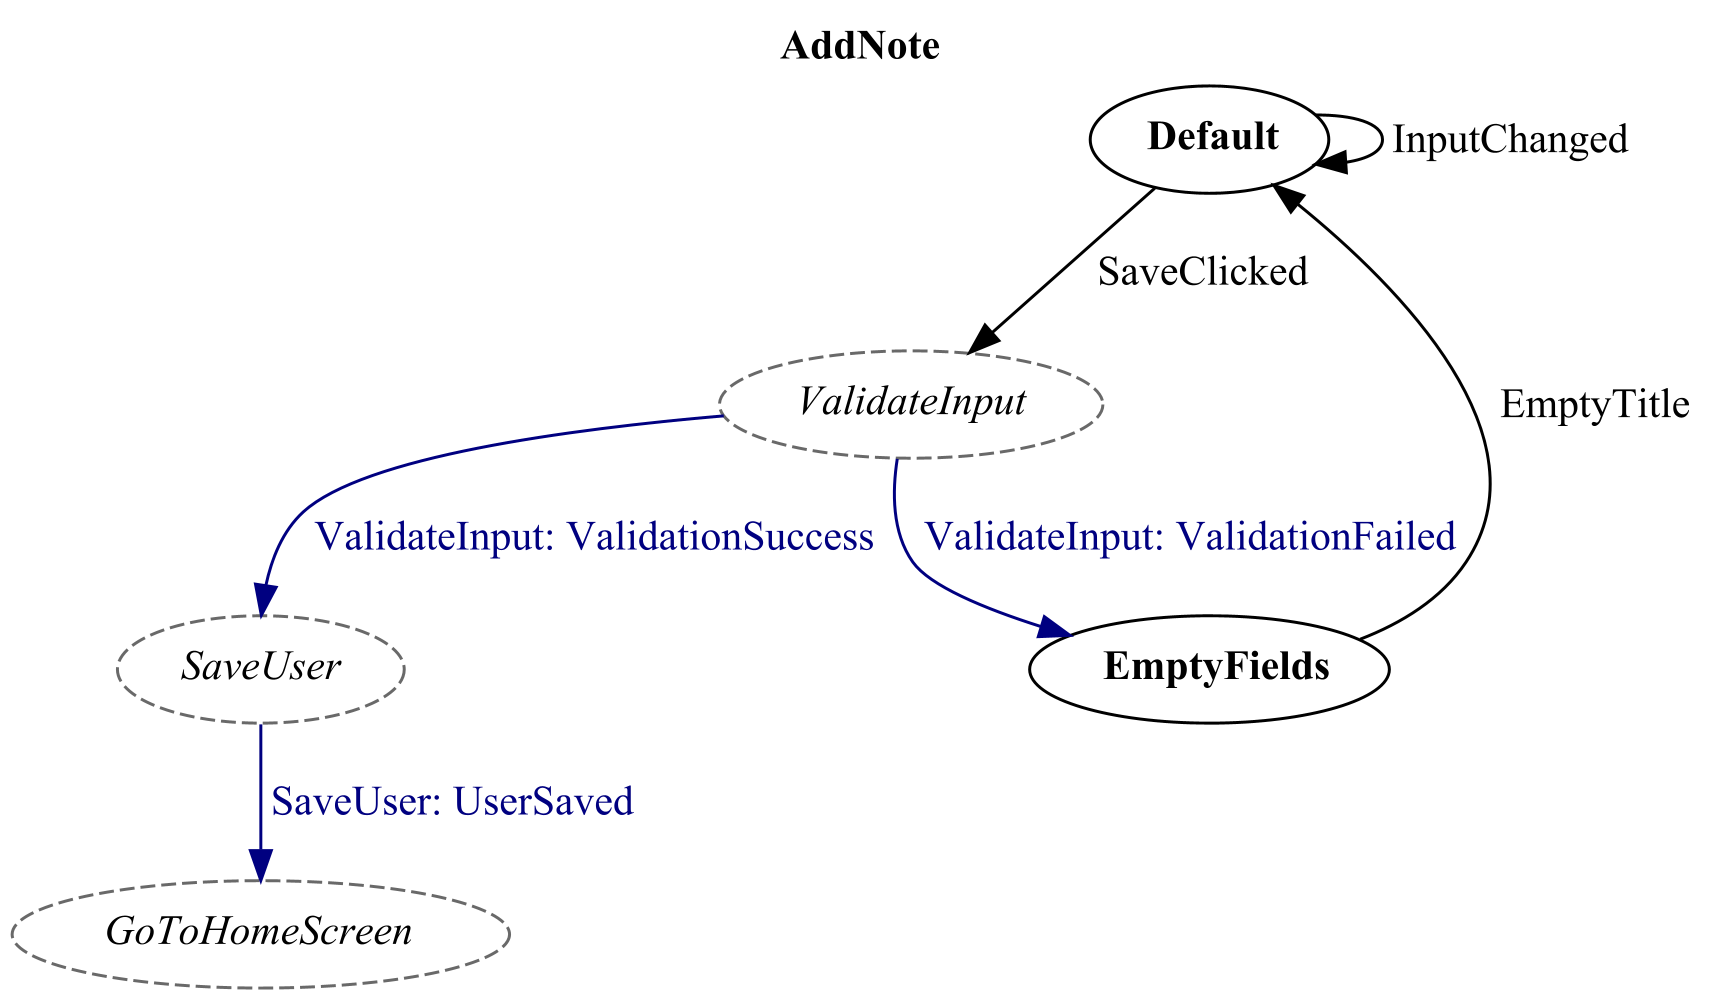
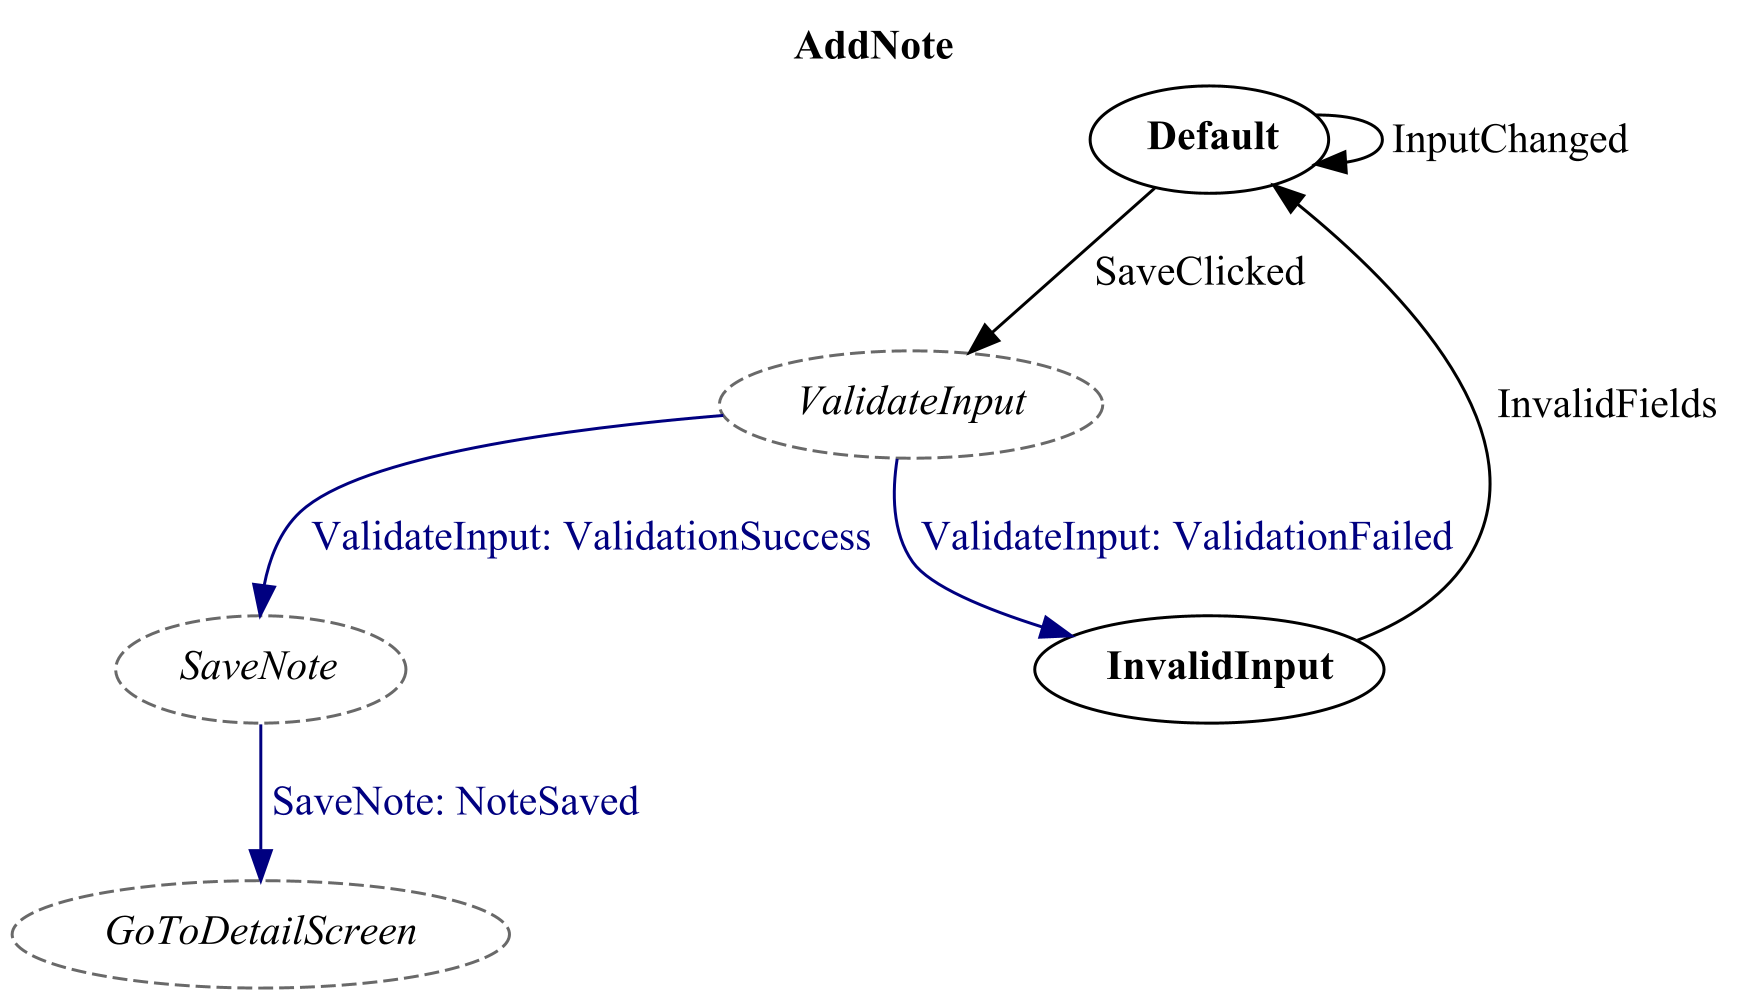
Updated 'AddNote yaml and screenshot'

diff --git a/README.md b/README.md
@@ -12,4 +12,4 @@ Note app using Mobius and unit testing
 
 ### View Note Screen
 
-<p align="center"><img src="StateDiagram/ViewNote.png" height="400"></p>
+<p align="center"><img src="StateDiagram/ViewNote.png" height="200"></p>
